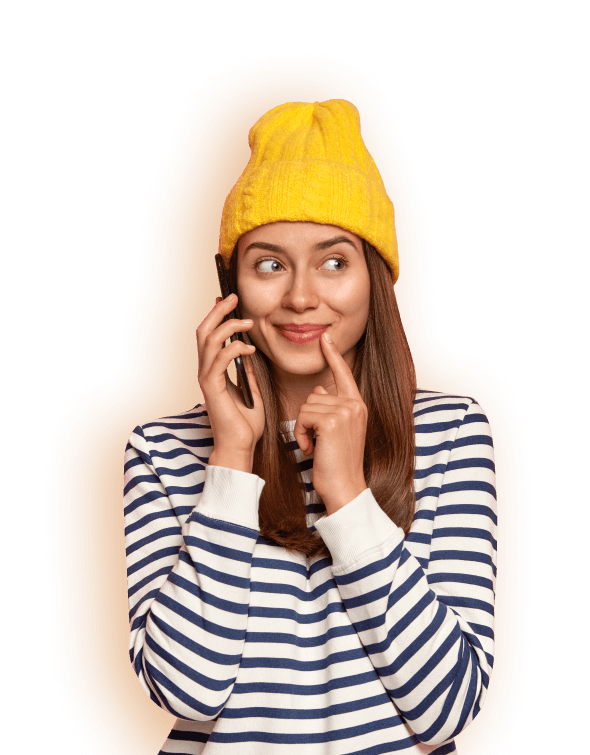
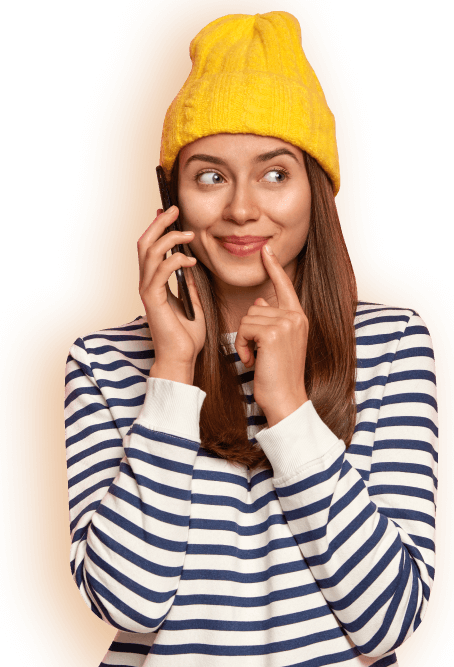
fix: size of the woman photo in the header

diff --git a/src/js/modules/constants.js b/src/js/modules/constants.js
@@ -1,7 +1,7 @@
 /* header */
 export const headerWomanImg = document.querySelector('.header__woman-img');
-export const SHIFT_HEADER_WOMAN_IMG_1920 = 453;
-export const SHIFT_HEADER_WOMAN_IMG_1280 = 423;
+export const SHIFT_HEADER_WOMAN_IMG_1920 = 407;
+export const SHIFT_HEADER_WOMAN_IMG_1280 = 410;
 export const buttonHeader = document.querySelector('.button_header');
 
 /* form credit */

diff --git a/src/scss/blocks/header.scss b/src/scss/blocks/header.scss
@@ -169,7 +169,7 @@
     z-index: 10;
 
     @include media_1280 {
-      width: 530px;
+      width: 440px;
     }
 
     @include media_740 {
